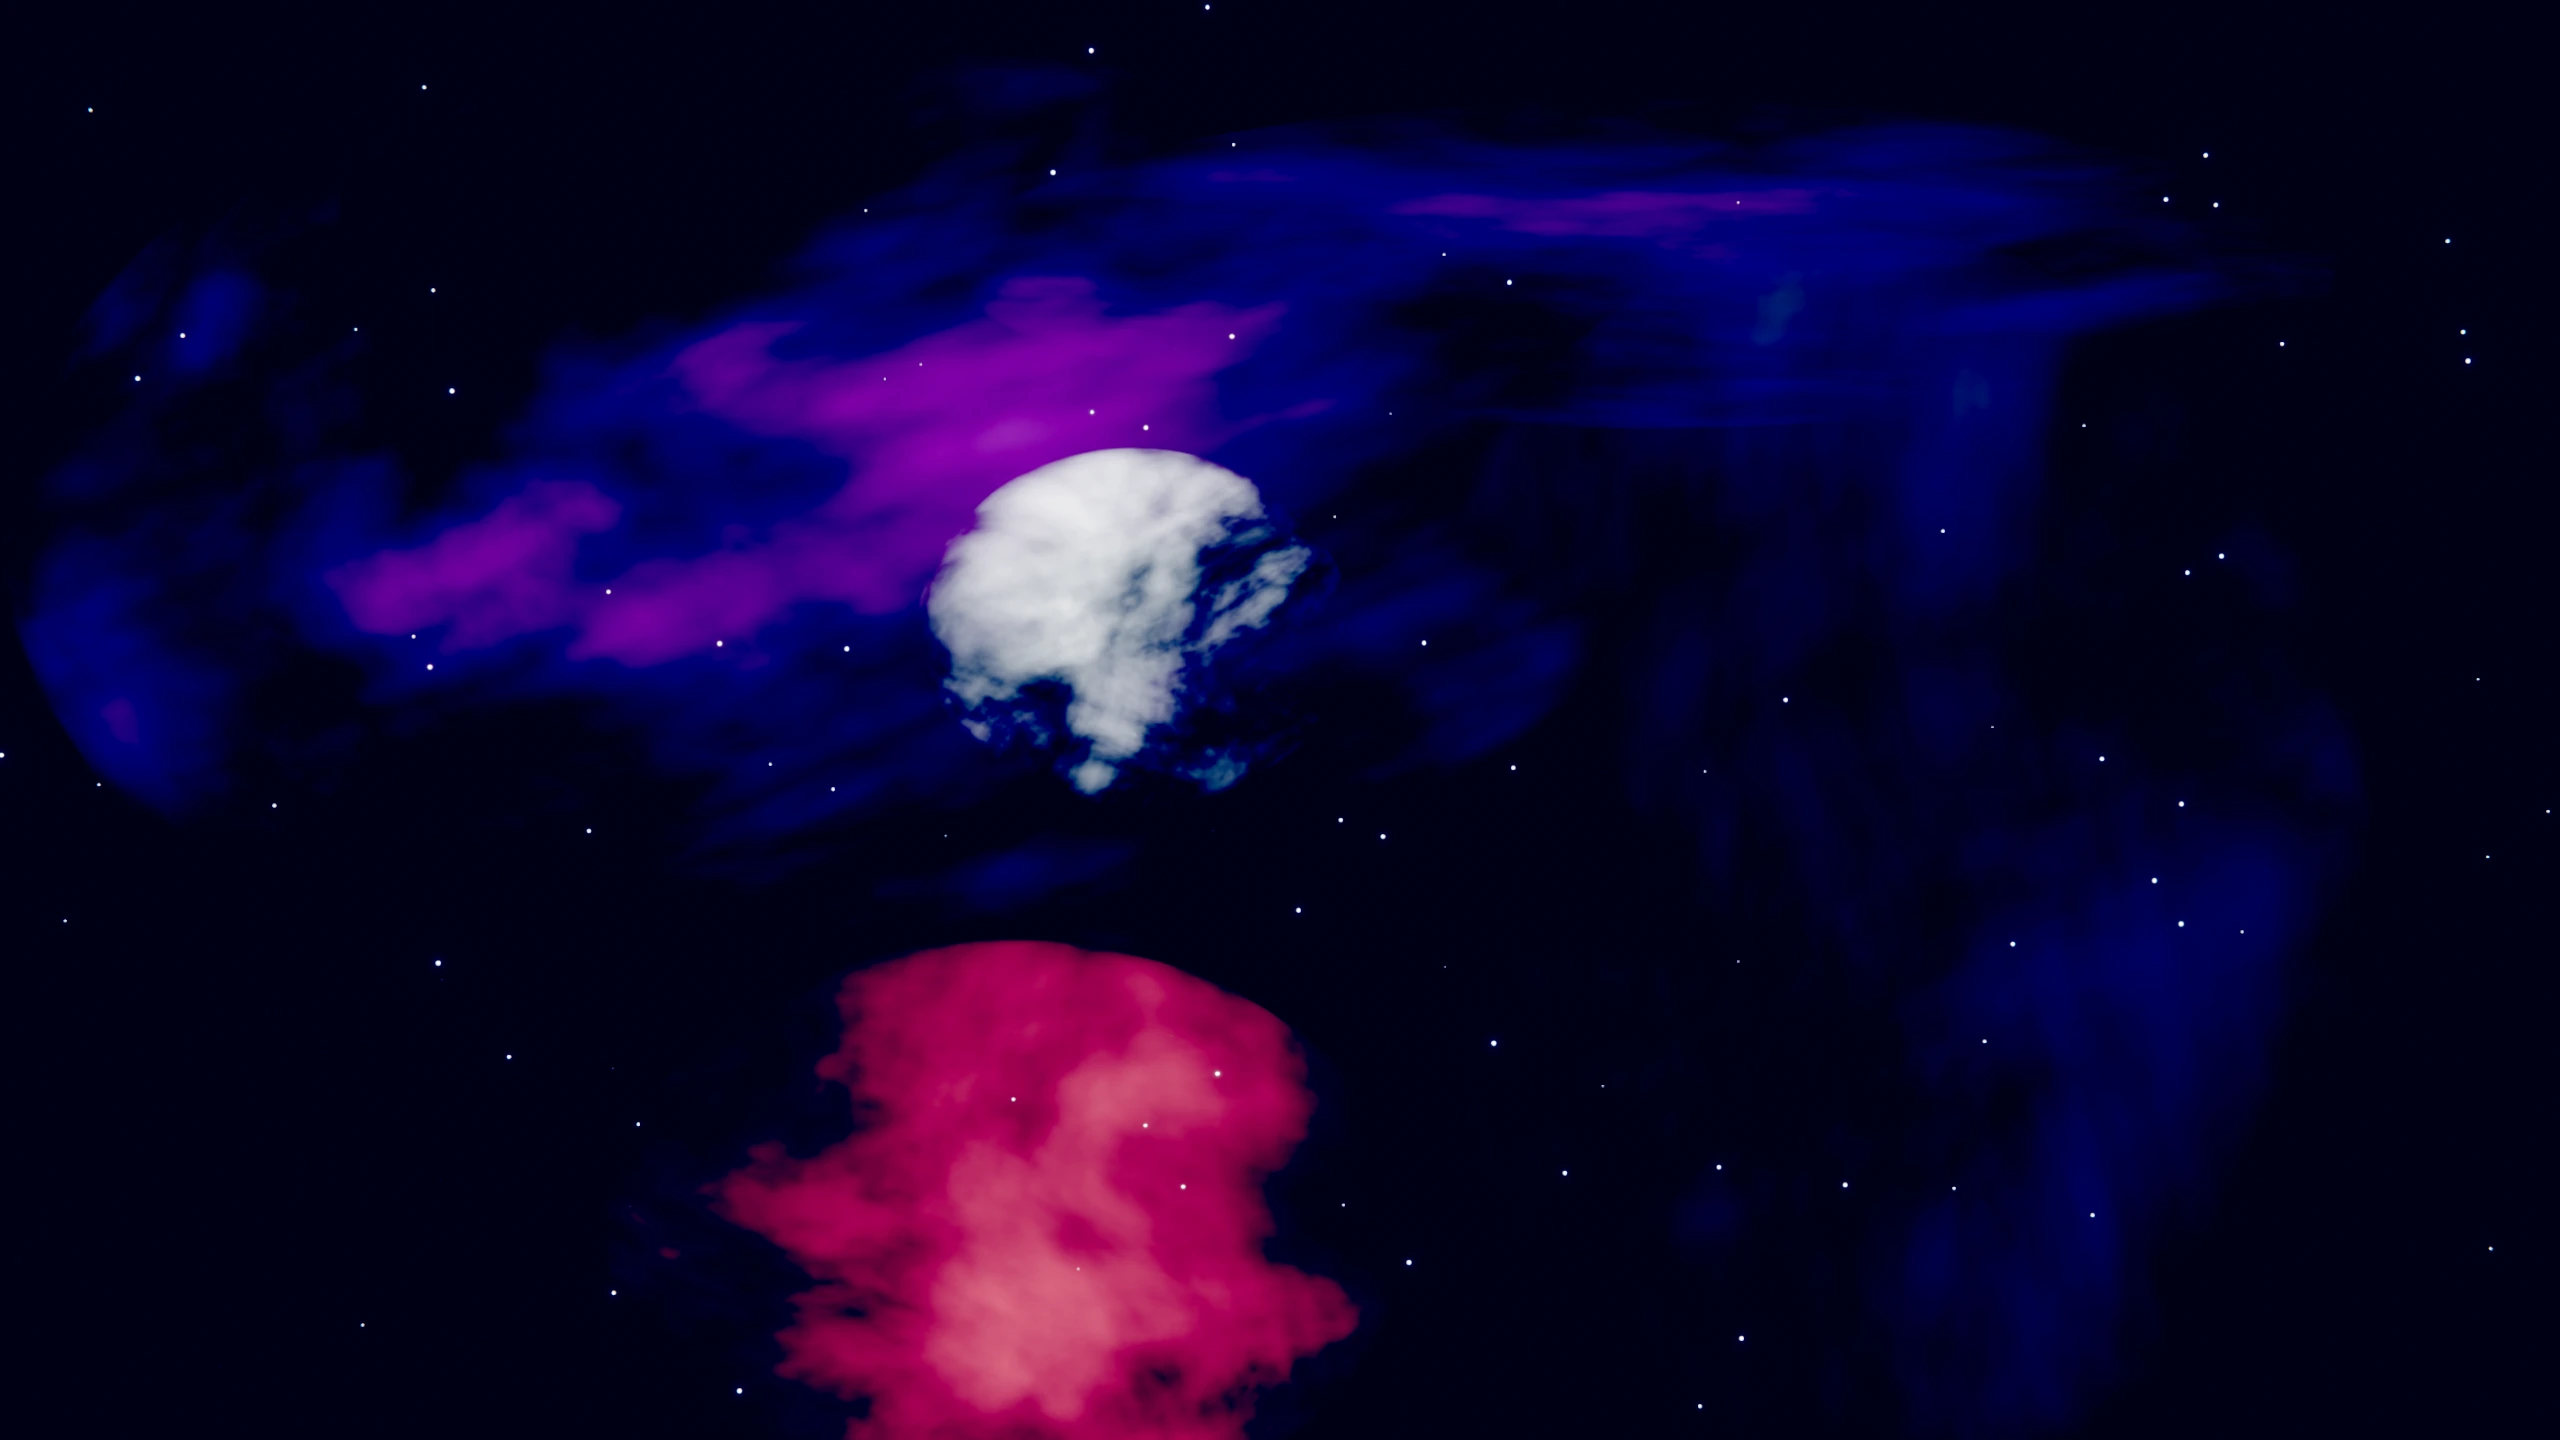
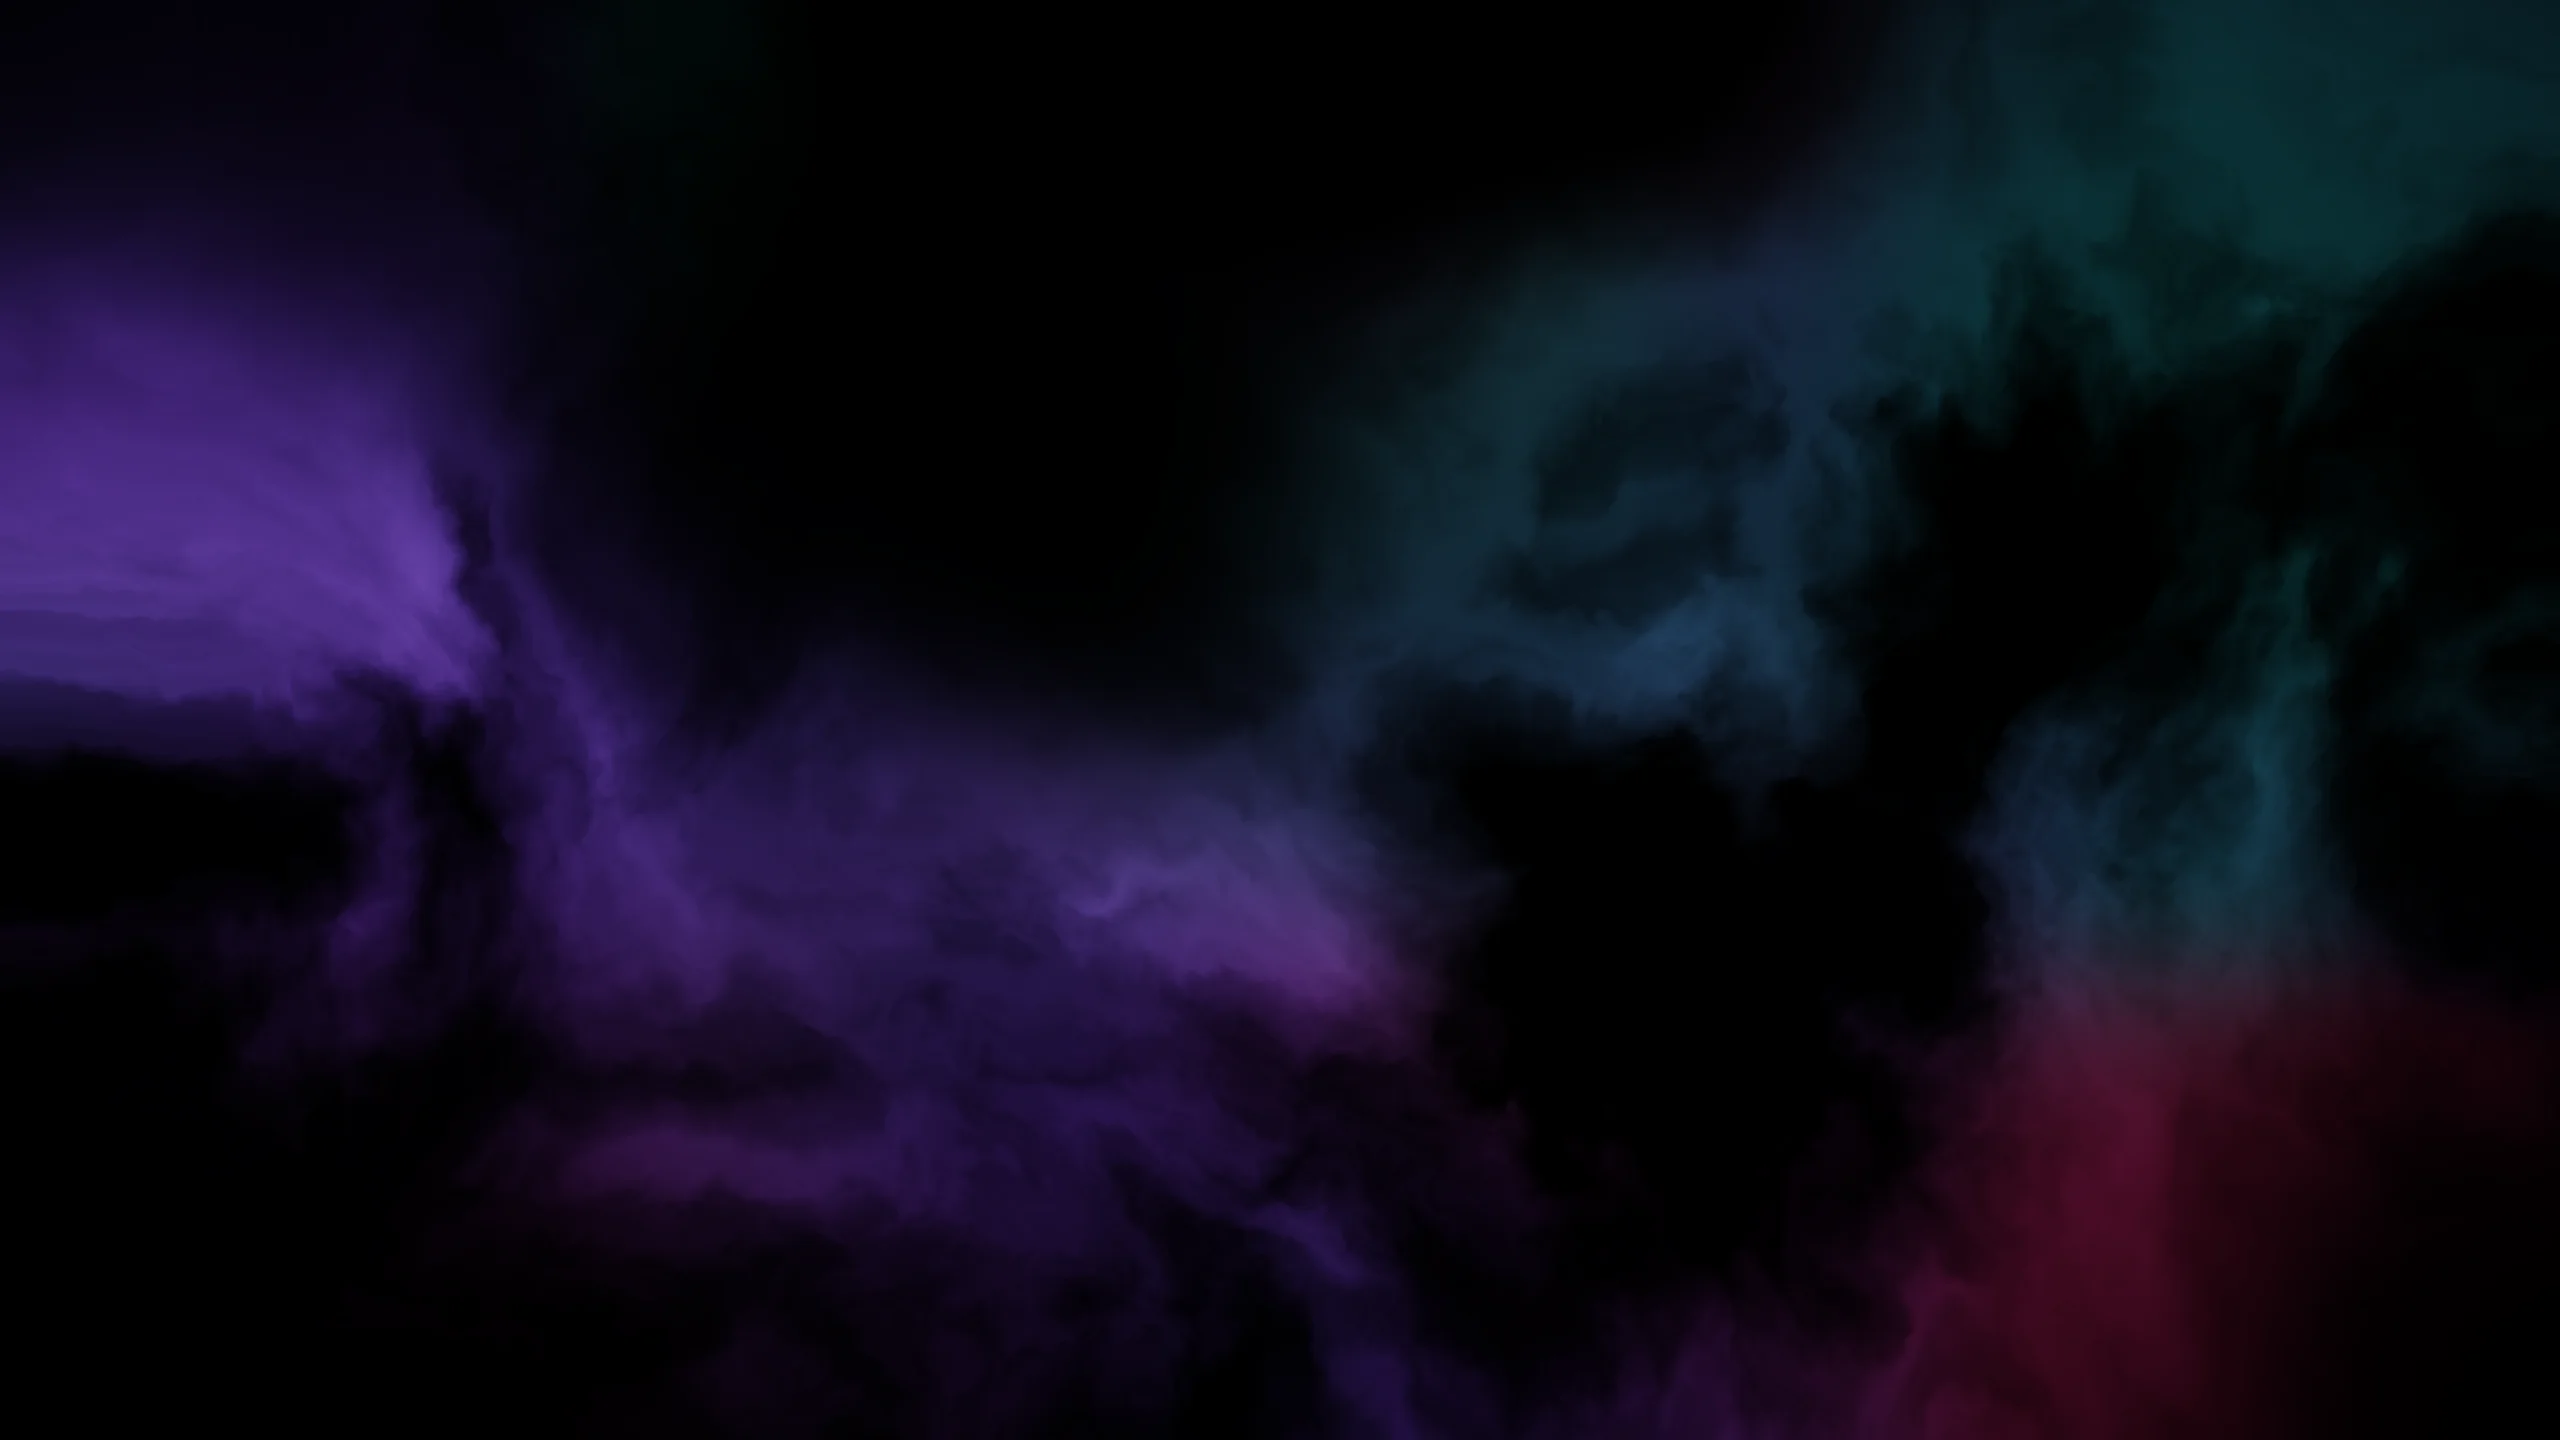
Make the universe persistent and render a realistic procedural nebula
Section transitions no longer mount/unmount constellations like UI
elements (shrink to zero, empty travel, elastic pop-in). Every
constellation now permanently exists at its position in space, so during
travel the next one approaches as distant points that grow naturally with
perspective. Arrival is a gentle staggered star flare plus the edge
pattern tracing itself in; departure just dissolves the pattern while the
stars recede behind the camera.

The nebula backdrop is regenerated with domain-warped fractal noise
(Quilez-style f(p + a*fbm(p + b*fbm(p)))): wispy filaments, ridged bright
strands, dark dust lanes, and palette-matched color zones (violet left,
teal upper-right, crimson lower-right) instead of the old smooth blobs
with a white cloud in the middle.

diff --git a/src/components/ConstellationSystem.tsx b/src/components/ConstellationSystem.tsx
@@ -23,6 +23,9 @@ import {
 const FOV = 75;
 const NODE_DIST = 100; // constellation plane sits 100 units beyond the section camera stop
 
+const NODE_OPACITY = 0.95;
+const GLOW_BASE = 0.32;
+const GLOW_HOVER = 0.7;
 const EDGE_BASE_OPACITY = 0.5;
 
 let glowTexture: THREE.Texture | null = null;
@@ -43,7 +46,6 @@ function getGlowTexture(): THREE.Texture {
 }
 
 interface GroupApi {
-  prep: () => void;
   arrive: (tl: gsap.core.Timeline, at: number) => void;
   depart: (tl: gsap.core.Timeline, at: number) => void;
   showInstant: () => void;
@@ -76,6 +78,13 @@ function adaptForMobile(c: Constellation, isMobile: boolean) {
   return { nodes, edges };
 }
 
+/**
+ * A constellation's stars are ALWAYS present in space — approaching them,
+ * perspective grows them naturally from distant points, which is what makes
+ * travel feel real. Only the *pattern* is ephemeral: on arrival each star
+ * flares gently (staggered) and the edges trace themselves in; on departure
+ * the edges dissolve and the stars simply recede behind the camera.
+ */
 const ConstellationGroup = forwardRef<GroupApi, GroupProps>(
   function ConstellationGroup({ sectionIndex, isMobile, onHover }, apiRef) {
     const section = SECTIONS[sectionIndex];
@@ -83,7 +92,6 @@ const ConstellationGroup = forwardRef<GroupApi, GroupProps>(
     const palette = section.palette;
     const { size, camera, gl } = useThree();
 
-    const rootRef = useRef<THREE.Group>(null);
     const nodeGroups = useRef<(THREE.Group | null)[]>([]);
     const nodeMats = useRef<(THREE.MeshBasicMaterial | null)[]>([]);
     const glowMats = useRef<(THREE.SpriteMaterial | null)[]>([]);
@@ -120,6 +128,10 @@ const ConstellationGroup = forwardRef<GroupApi, GroupProps>(
     const baseColor = useMemo(() => new THREE.Color(palette.nodeColor), [palette.nodeColor]);
     const hoverColor = useMemo(
       () => baseColor.clone().lerp(new THREE.Color("#ffffff"), 0.65),
+      [baseColor]
+    );
+    const flareColor = useMemo(
+      () => baseColor.clone().lerp(new THREE.Color("#ffffff"), 0.45),
       [baseColor]
     );
 
@@ -164,112 +176,73 @@ const ConstellationGroup = forwardRef<GroupApi, GroupProps>(
 
     const edgeMat = (j: number) => lines[j].material as LineMaterial;
 
-    const setAll = (visible: boolean, scale: number, opacity: number) => {
-      if (rootRef.current) rootRef.current.visible = visible;
-      nodeGroups.current.forEach((g) => g?.scale.setScalar(scale));
-      nodeMats.current.forEach((m) => m && (m.opacity = opacity));
-      glowMats.current.forEach((m) => m && (m.opacity = opacity * 0.35));
-      lines.forEach((l) => {
-        const m = l.material as LineMaterial;
-        m.dashOffset = visible ? 0 : (l.userData.len as number);
-        m.opacity = visible ? EDGE_BASE_OPACITY : 0;
-      });
-    };
-
     useImperativeHandle(
       apiRef,
       (): GroupApi => ({
-        prep() {
-          shownRef.current = true;
-          if (rootRef.current) rootRef.current.visible = true;
-          nodeGroups.current.forEach((g) => g?.scale.setScalar(0));
-          nodeMats.current.forEach((m) => m && (m.opacity = 0));
-          glowMats.current.forEach((m) => m && (m.opacity = 0));
-          lines.forEach((l) => {
-            const m = l.material as LineMaterial;
-            m.dashOffset = l.userData.len as number;
-            m.opacity = EDGE_BASE_OPACITY;
-          });
-        },
         arrive(tl, at) {
-          const groups = nodeGroups.current.filter(Boolean) as THREE.Group[];
-          tl.to(
-            groups.map((g) => g.scale),
-            {
-              x: 1, y: 1, z: 1,
-              duration: 0.9,
-              ease: "elastic.out(1, 0.5)",
-              stagger: 0.08,
-              overwrite: "auto",
-            },
-            at
-          );
-          tl.to(
-            nodeMats.current.filter(Boolean),
-            { opacity: 1, duration: 0.3, stagger: 0.08, overwrite: "auto" },
-            at
-          );
-          tl.to(
-            glowMats.current.filter(Boolean),
-            { opacity: 0.35, duration: 0.3, stagger: 0.08, overwrite: "auto" },
-            at
-          );
+          shownRef.current = true;
+          // each star flares gently in sequence — a focus pull, not a pop-in
+          nodeGroups.current.forEach((g, k) => {
+            if (!g) return;
+            const t = at + k * 0.06;
+            tl.to(g.scale, { x: 1.18, y: 1.18, z: 1.18, duration: 0.3, ease: "sine.out", overwrite: "auto" }, t);
+            tl.to(g.scale, { x: 1, y: 1, z: 1, duration: 0.55, ease: "sine.inOut", overwrite: "auto" }, t + 0.3);
+            const mat = nodeMats.current[k];
+            if (mat) {
+              tl.to(mat.color, { r: flareColor.r, g: flareColor.g, b: flareColor.b, duration: 0.25, overwrite: "auto" }, t);
+              tl.to(mat.color, { r: baseColor.r, g: baseColor.g, b: baseColor.b, duration: 0.6, overwrite: "auto" }, t + 0.3);
+            }
+            const glow = glowMats.current[k];
+            if (glow) {
+              tl.to(glow, { opacity: 0.62, duration: 0.28, overwrite: "auto" }, t);
+              tl.to(glow, { opacity: GLOW_BASE, duration: 0.6, overwrite: "auto" }, t + 0.32);
+            }
+          });
+          // then the pattern traces itself between the settled stars
           lines.forEach((l, j) => {
+            tl.set(edgeMat(j), { opacity: EDGE_BASE_OPACITY }, at + 0.45);
             tl.fromTo(
               edgeMat(j),
               { dashOffset: l.userData.len as number },
-              {
-                dashOffset: 0,
-                duration: 0.4,
-                ease: "power2.out",
-                overwrite: "auto",
-              },
-              at + 0.4 + j * 0.06
+              { dashOffset: 0, duration: 0.35, ease: "power2.out", overwrite: "auto" },
+              at + 0.5 + j * 0.07
             );
           });
         },
         depart(tl, at) {
-          hoverIdx.current = -1;
           shownRef.current = false;
-          const groups = nodeGroups.current.filter(Boolean) as THREE.Group[];
-          tl.to(
-            groups.map((g) => g.scale),
-            {
-              x: 0, y: 0, z: 0,
-              duration: 0.45,
-              ease: "power2.in",
-              stagger: 0.04,
-              overwrite: "auto",
-            },
-            at
-          );
-          tl.to(
-            [...nodeMats.current, ...glowMats.current].filter(Boolean),
-            { opacity: 0, duration: 0.4, overwrite: "auto" },
-            at
-          );
+          hoverIdx.current = -1;
+          // the pattern dissolves; the stars themselves stay and recede
           lines.forEach((_, j) => {
-            tl.to(
-              edgeMat(j),
-              { opacity: 0, duration: 0.4, overwrite: "auto" },
-              at
-            );
+            tl.to(edgeMat(j), { opacity: 0, duration: 0.35, overwrite: "auto" }, at);
           });
-          tl.call(
-            () => {
-              if (rootRef.current) rootRef.current.visible = false;
-            },
-            [],
-            at + 0.75
-          );
+          nodeGroups.current.forEach((g) => {
+            if (g) tl.to(g.scale, { x: 1, y: 1, z: 1, duration: 0.3, overwrite: "auto" }, at);
+          });
+          nodeMats.current.forEach((m) => {
+            if (!m) return;
+            tl.to(m, { opacity: NODE_OPACITY, duration: 0.3, overwrite: "auto" }, at);
+            tl.to(m.color, { r: baseColor.r, g: baseColor.g, b: baseColor.b, duration: 0.3, overwrite: "auto" }, at);
+          });
+          glowMats.current.forEach((m) => {
+            if (m) tl.to(m, { opacity: GLOW_BASE, duration: 0.35, overwrite: "auto" }, at);
+          });
         },
         showInstant() {
           shownRef.current = true;
-          setAll(true, 1, 1);
+          lines.forEach((l) => {
+            const m = l.material as LineMaterial;
+            m.dashOffset = 0;
+            m.opacity = EDGE_BASE_OPACITY;
+          });
         },
         hideInstant() {
           shownRef.current = false;
-          setAll(false, 0, 0);
+          lines.forEach((l) => {
+            const m = l.material as LineMaterial;
+            m.dashOffset = l.userData.len as number;
+            m.opacity = 0;
+          });
         },
       }),
       [lines] // eslint-disable-line react-hooks/exhaustive-deps
@@ -300,7 +273,7 @@ const ConstellationGroup = forwardRef<GroupApi, GroupProps>(
       if (mat)
         gsap.to(mat.color, { r: hoverColor.r, g: hoverColor.g, b: hoverColor.b, duration: 0.3, overwrite: "auto" });
       const glow = glowMats.current[i];
-      if (glow) gsap.to(glow, { opacity: 0.7, duration: 0.3, overwrite: "auto" });
+      if (glow) gsap.to(glow, { opacity: GLOW_HOVER, duration: 0.3, overwrite: "auto" });
       const conn = connectedEdges(i);
       lines.forEach((_, j) => {
         gsap.to(edgeMat(j), {
@@ -330,8 +303,8 @@ const ConstellationGroup = forwardRef<GroupApi, GroupProps>(
       nodes.forEach((_, k) => {
         const m = nodeMats.current[k];
         const gm = glowMats.current[k];
-        if (m) gsap.to(m, { opacity: 1, duration: 0.2, overwrite: "auto" });
-        if (gm) gsap.to(gm, { opacity: 0.35, duration: 0.2, overwrite: "auto" });
+        if (m) gsap.to(m, { opacity: NODE_OPACITY, duration: 0.2, overwrite: "auto" });
+        if (gm) gsap.to(gm, { opacity: GLOW_BASE, duration: 0.2, overwrite: "auto" });
       });
     };
 
@@ -354,25 +327,13 @@ const ConstellationGroup = forwardRef<GroupApi, GroupProps>(
     };
 
     return (
-      <group
-        ref={(el) => {
-          rootRef.current = el;
-          if (el && !el.userData.init) {
-            el.visible = false;
-            el.userData.init = true;
-          }
-        }}
-      >
+      <group>
         {nodes.map((node, i) => (
           <group
             key={node.id}
             position={positions[i]}
             ref={(el) => {
               nodeGroups.current[i] = el;
-              if (el && !el.userData.init) {
-                el.scale.setScalar(0);
-                el.userData.init = true;
-              }
             }}
           >
             <mesh>
@@ -383,7 +344,7 @@ const ConstellationGroup = forwardRef<GroupApi, GroupProps>(
                 }}
                 color={palette.nodeColor}
                 transparent
-                opacity={0}
+                opacity={NODE_OPACITY}
               />
             </mesh>
             <sprite scale={[node.r * 8, node.r * 8, 1]}>
@@ -394,7 +355,7 @@ const ConstellationGroup = forwardRef<GroupApi, GroupProps>(
                 }}
                 color={palette.nodeColor}
                 transparent
-                opacity={0}
+                opacity={GLOW_BASE}
                 blending={THREE.AdditiveBlending}
                 depthWrite={false}
               />
@@ -437,11 +398,10 @@ interface SystemProps {
 }
 
 /**
- * Transition orchestration is driven by the *actual* camera progress, not a
- * fixed timer: the old constellation departs as soon as the camera pulls away
- * from its section stop, and the new one materialises only once the camera is
- * close to its stop AND has decelerated — so arrival always lands on a settled
- * camera, in either scroll direction, even across multi-section jumps.
+ * Transition orchestration is driven by the *actual* camera progress: the
+ * pattern dissolves as soon as the camera pulls away from a section stop,
+ * and the next pattern traces in only once the camera is close to its stop
+ * AND has decelerated — in either direction, even across multi-section jumps.
  */
 export default function ConstellationSystem({
   section,
@@ -479,7 +439,7 @@ export default function ConstellationSystem({
       vel += ((p - prevP) / dt - vel) * Math.min(1, dt * 12);
       prevP = p;
 
-      // Phase 1 — departure: camera has left the displayed section's stop
+      // departure: camera has left the displayed section's stop
       const d = displayed.current;
       if (d != null && Math.abs(p - d / 4) > 0.05) {
         displayed.current = null;
@@ -492,7 +452,7 @@ export default function ConstellationSystem({
         apis.current[d]?.depart(tl, 0);
       }
 
-      // Phase 3 — arrival: camera near the current section's stop and slowing
+      // arrival: camera near the current section's stop and slowing
       const s = sectionRef.current;
       if (
         displayed.current == null &&
@@ -504,10 +464,9 @@ export default function ConstellationSystem({
         arriveTl.current?.kill();
         const api = apis.current[s];
         if (api) {
-          api.prep();
           const tl = gsap.timeline();
           arriveTl.current = tl;
-          api.arrive(tl, 0.12);
+          api.arrive(tl, 0.1);
         }
       }
     };